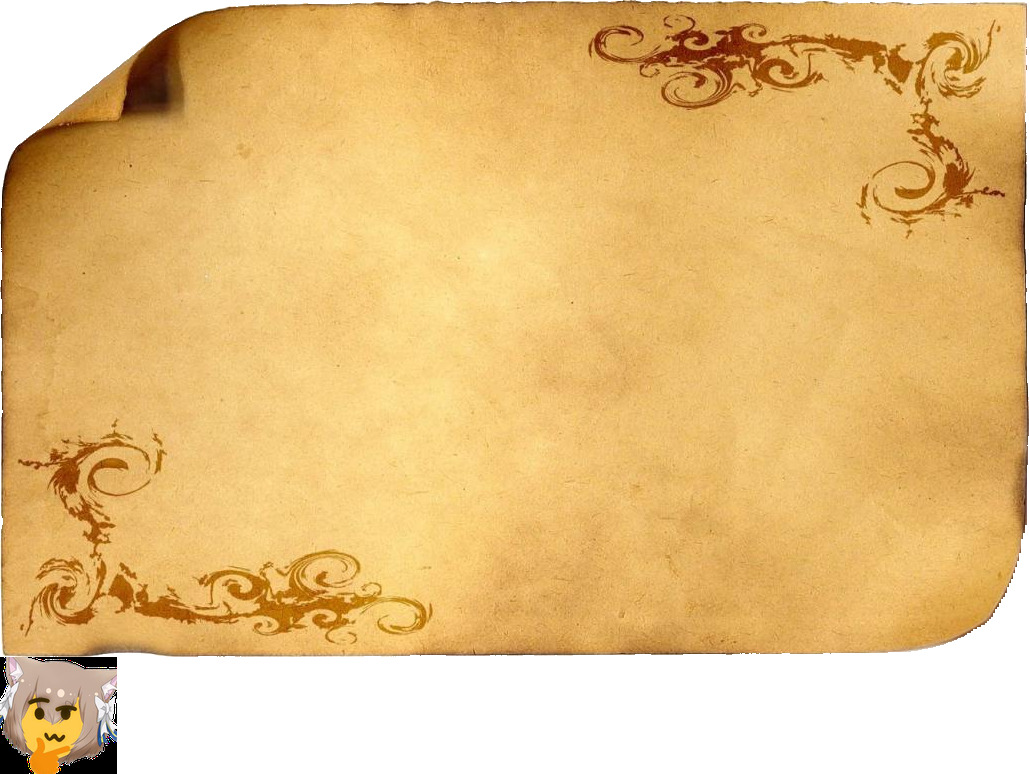
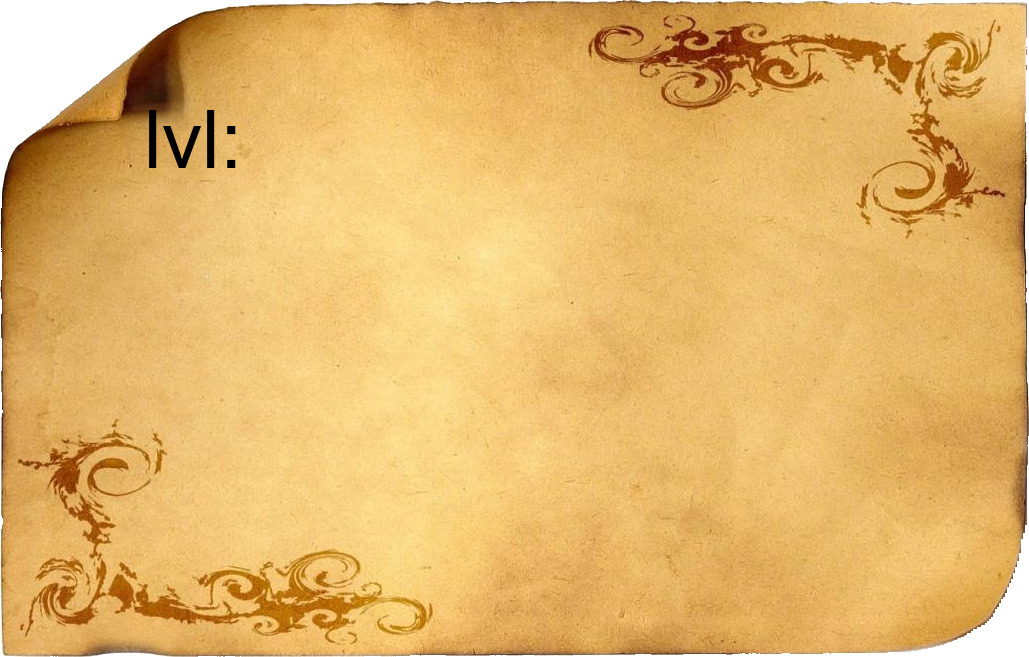
ыыыы

diff --git a/app.js b/app.js
@@ -10,9 +10,9 @@ dsbot.on('ready',function () {
     //
     //https://cdn.discordapp.com/avatars/204590199932452864/5a27052d1bae9c25a885c77505f3210a.png
     gm('./image.png')
-        .fontSize(12)
-        .drawText(74, 144, "lvl:")
-        .fill('#fffff')
+        .fontSize(80)
+        .drawText(144, 168, "lvl:")
+        .fill('#ffff')
         .stroke("#fff")
         .drawRectangle(184, 135, 836, 135, 20, 20)
         .fill('#8ef753')
